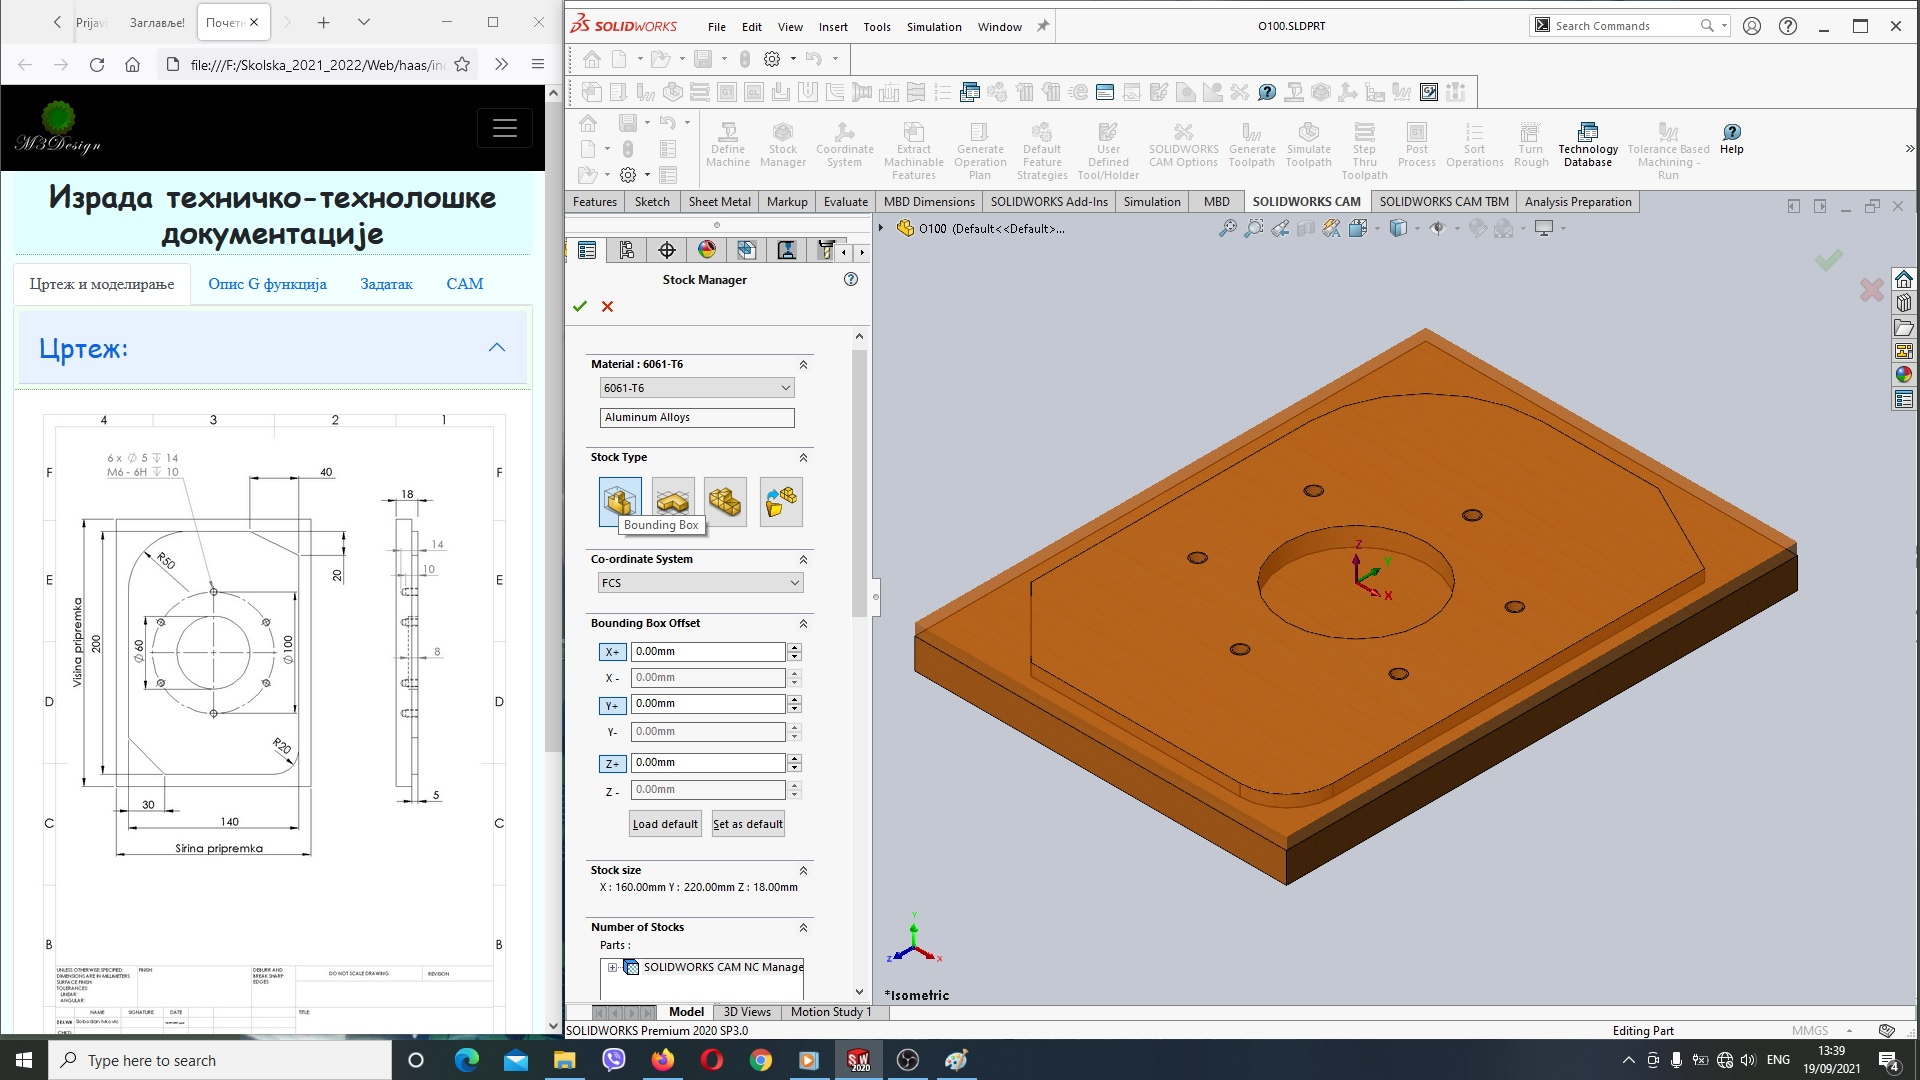
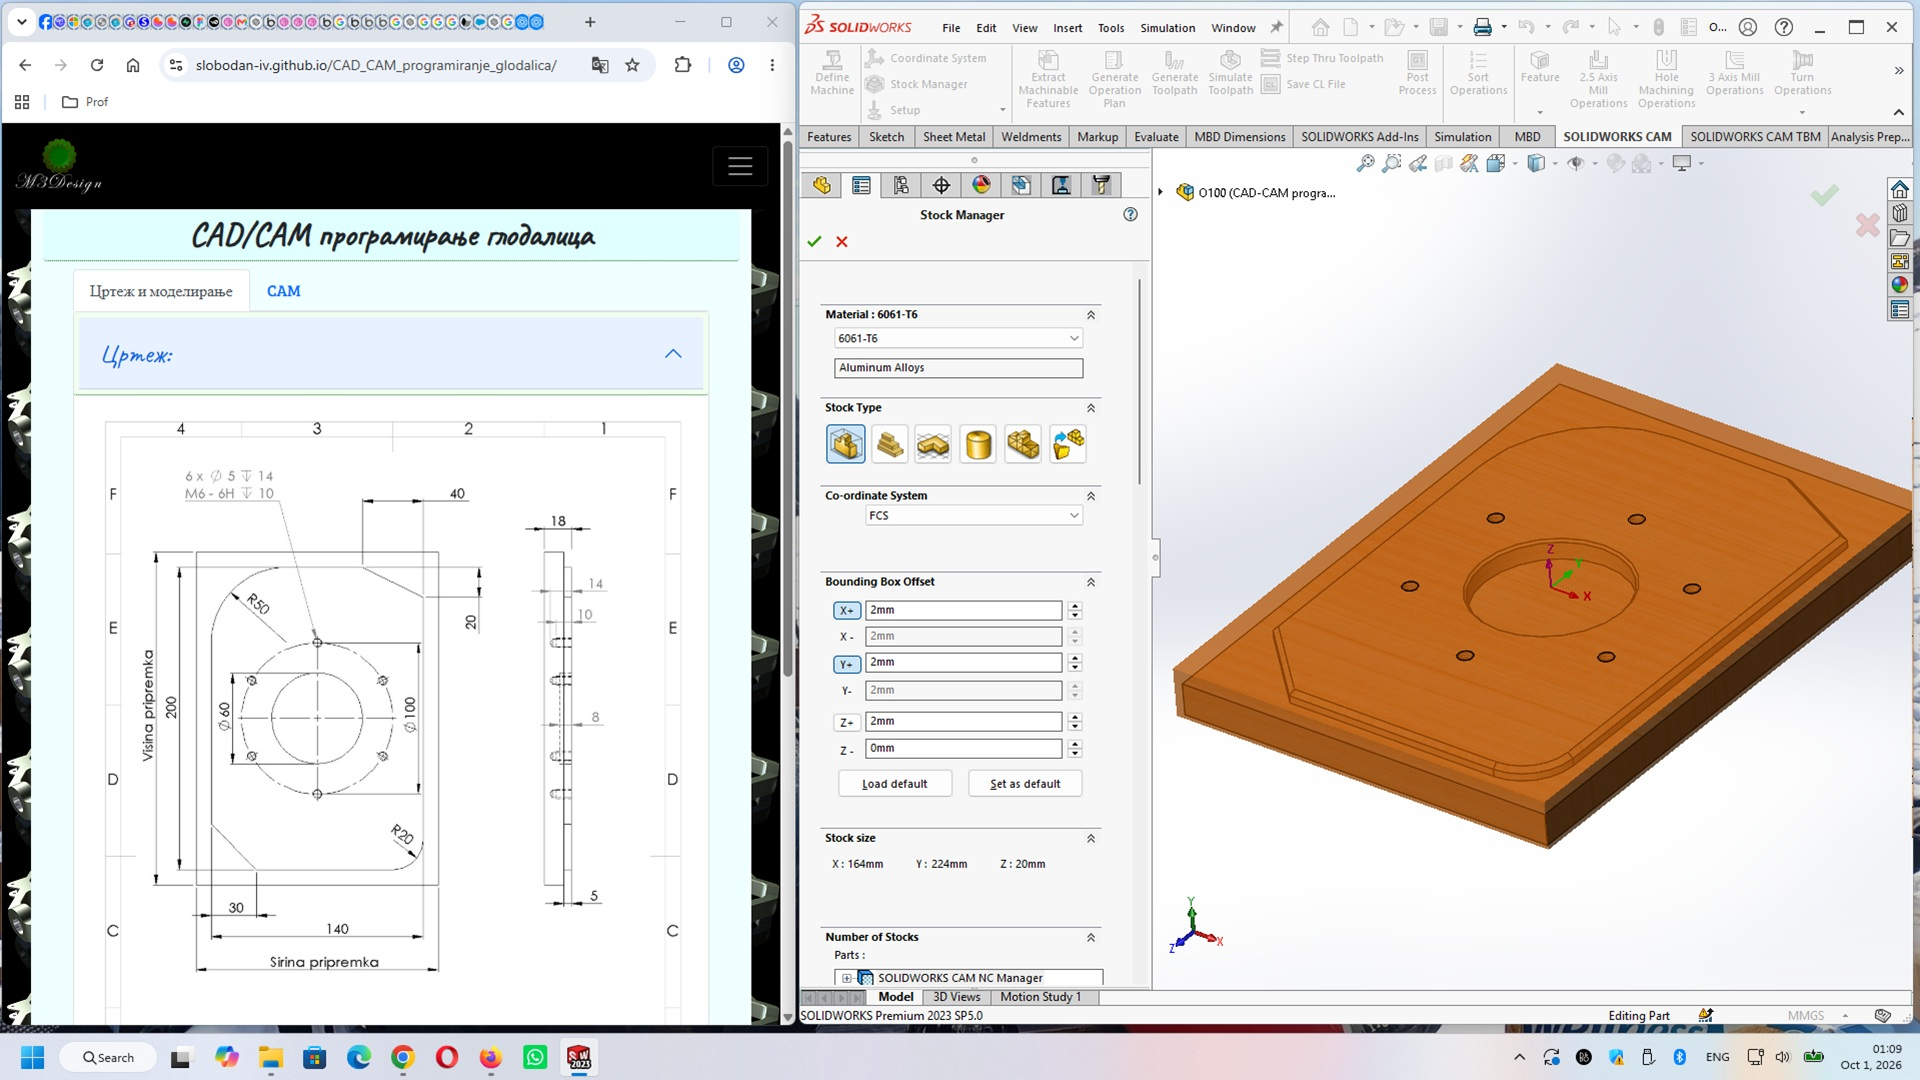
The index.html page for Face Mill Feature has been finished, also carousel has been updated to accomplish Face Mill Feature update. I love my son Aleksej Ivkovic Cvijic very very much. I miss you to the farthest star and beyond, unponderable in infinity... To my son Aleksej with love!

diff --git a/index.html b/index.html
@@ -244,13 +244,13 @@
                   <div class="accordion-item">
                     <h2 class="accordion-header" id="O100_CAM_setup_tutorial">
                       <button class="btn accordion-button" type="button" data-bs-toggle="collapse" data-bs-target="#collapse_O100_CAM_setup_tutorial" aria-expanded="true" aria-controls="collapse_O100_CAM_setup_tutorial">
-                        Дефинисање машине, постпроцесора, припремка и координатног система:
+                        Дефинисање машине, постпроцесора, припремка и координатног система (основни елементи CAD/CAM програма):
                       </button>
                     </h2>
                     <div id="collapse_O100_CAM_setup_tutorial" class="accordion-collapse collapse" aria-labelledby="O100_CAM_setup_tutorial" data-bs-parent="#sw_tutorial">
                       <div class="accordion-body">
                         <div class="card ratio ratio-16x9">
-                          
+                          <iframe width="560" height="315" src="https://www.youtube.com/embed/XT0kz7Z2v-8?si=mJjwr9-R5z628vgt" title="YouTube video player" frameborder="0" allow="accelerometer; autoplay; clipboard-write; encrypted-media; gyroscope; picture-in-picture; web-share" referrerpolicy="strict-origin-when-cross-origin" allowfullscreen></iframe>
                         </div>
                       </div>
                     </div>
@@ -264,7 +264,7 @@
                     <div id="collapse_O100_Extract_MF_tutorial" class="accordion-collapse collapse" aria-labelledby="O100_Extract_MF_tutorial" data-bs-parent="#sw_tutorial">
                       <div class="accordion-body">
                         <div class="card ratio ratio-16x9">
-                          
+                          <iframe width="560" height="315" src="https://www.youtube.com/embed/Jf_yqeROFaE?si=mVYWIF59WNEQd2wp" title="YouTube video player" frameborder="0" allow="accelerometer; autoplay; clipboard-write; encrypted-media; gyroscope; picture-in-picture; web-share" referrerpolicy="strict-origin-when-cross-origin" allowfullscreen></iframe>
                         </div>
                       </div>
                     </div>
@@ -278,7 +278,7 @@
                     <div id="collapse_O100_Generate_OP_for_Face_Mill" class="accordion-collapse collapse" aria-labelledby="O100_Generate_OP_for_Face_Mill" data-bs-parent="#sw_tutorial">
                       <div class="accordion-body">
                         <div class="card ratio ratio-16x9">
-                          
+                          <iframe width="560" height="315" src="https://www.youtube.com/embed/7UqQWlA4AN0?si=wGQWGLgYNeJSl835" title="YouTube video player" frameborder="0" allow="accelerometer; autoplay; clipboard-write; encrypted-media; gyroscope; picture-in-picture; web-share" referrerpolicy="strict-origin-when-cross-origin" allowfullscreen></iframe>
                         </div>
                       </div>
                     </div>
@@ -292,14 +292,14 @@
                     <div id="collapse_O100_Post_Process_for_Face_Mill" class="accordion-collapse collapse" aria-labelledby="O100_Post_Process_for_Face_Mill" data-bs-parent="#sw_tutorial">
                       <div class="accordion-body">
                         <div class="card ratio ratio-16x9">
-                          
+                          <iframe width="560" height="315" src="https://www.youtube.com/embed/2Y1J01folZs?si=X0YYKwURP2ptQNzF" title="YouTube video player" frameborder="0" allow="accelerometer; autoplay; clipboard-write; encrypted-media; gyroscope; picture-in-picture; web-share" referrerpolicy="strict-origin-when-cross-origin" allowfullscreen></iframe>
                         </div>
                       </div>
                     </div>
                   </div>
                   <div class="accordion-item">
                     <h2 class="accordion-header" id="O100_Generate_OP_for_Open_Pocket">
-                      <button class="btn accordion-button" type="button" data-bs-toggle="collapse" data-bs-target="#collapse_O100_Generate_OP_for_Open_Pocket" aria-expanded="true" aria-controls="collapse_O100_Generate_OP_for_Open_Pocket">
+                      <button class="btn accordion-button disabled" type="button" data-bs-toggle="collapse" data-bs-target="#collapse_O100_Generate_OP_for_Open_Pocket" aria-expanded="true" aria-controls="collapse_O100_Generate_OP_for_Open_Pocket">
                         Generate Operation Plan for Open Pocket Feature:
                       </button>
                     </h2>
@@ -313,7 +313,7 @@
                   </div>
                   <div class="accordion-item">
                     <h2 class="accordion-header" id="O100_Post_Process_for_Open_Pocket">
-                      <button class="btn accordion-button" type="button" data-bs-toggle="collapse" data-bs-target="#collapse_O100_Post_Process_for_Open_Pocket" aria-expanded="true" aria-controls="collapse_O100_Post_Process_for_Open_Pocket">
+                      <button class="btn accordion-button disabled" type="button" data-bs-toggle="collapse" data-bs-target="#collapse_O100_Post_Process_for_Open_Pocket" aria-expanded="true" aria-controls="collapse_O100_Post_Process_for_Open_Pocket">
                         Post Process for Open Pocket Feature:
                       </button>
                     </h2>
@@ -327,7 +327,7 @@
                   </div>
                   <div class="accordion-item">
                     <h2 class="accordion-header" id="O100_GOP_CP_tutorial">
-                      <button class="btn accordion-button" type="button" data-bs-toggle="collapse" data-bs-target="#collapse_O100_GOP_CP_tutorial" aria-expanded="true" aria-controls="collapse_O100_GOP_CP_tutorial">
+                      <button class="btn accordion-button disabled" type="button" data-bs-toggle="collapse" data-bs-target="#collapse_O100_GOP_CP_tutorial" aria-expanded="true" aria-controls="collapse_O100_GOP_CP_tutorial">
                         Generate Operation Plan for Circular Pocket Feature:
                       </button>
                     </h2>
@@ -341,7 +341,7 @@
                   </div>
                   <div class="accordion-item">
                     <h2 class="accordion-header" id="O100_Post_Process_CP_tutorial">
-                      <button class="btn accordion-button" type="button" data-bs-toggle="collapse" data-bs-target="#collapse_O100_Post_Process_CP_tutorial" aria-expanded="true" aria-controls="collapse_O100_Post_Process_CP_tutorial">
+                      <button class="btn accordion-button disabled" type="button" data-bs-toggle="collapse" data-bs-target="#collapse_O100_Post_Process_CP_tutorial" aria-expanded="true" aria-controls="collapse_O100_Post_Process_CP_tutorial">
                         Post Process for Circular Pocket Feature:
                       </button>
                     </h2>
@@ -355,7 +355,7 @@
                   </div>
                   <div class="accordion-item">
                     <h2 class="accordion-header" id="O100_GOP_H_tutorial">
-                      <button class="btn accordion-button" type="button" data-bs-toggle="collapse" data-bs-target="#collapse_O100_GOP_H_tutorial" aria-expanded="true" aria-controls="collapse_O100_GOP_H_tutorial">
+                      <button class="btn accordion-button disabled" type="button" data-bs-toggle="collapse" data-bs-target="#collapse_O100_GOP_H_tutorial" aria-expanded="true" aria-controls="collapse_O100_GOP_H_tutorial">
                         Generate Operation Plan for Hole Group Feature:
                       </button>
                     </h2>
@@ -369,7 +369,7 @@
                   </div>
                   <div class="accordion-item">
                     <h2 class="accordion-header" id="O100_Post_Process_H_tutorial">
-                      <button class="btn accordion-button" type="button" data-bs-toggle="collapse" data-bs-target="#collapse_O100_Post_Process_H_tutorial" aria-expanded="true" aria-controls="collapse_O100_Post_Process_H_tutorial">
+                      <button class="btn accordion-button disabled" type="button" data-bs-toggle="collapse" data-bs-target="#collapse_O100_Post_Process_H_tutorial" aria-expanded="true" aria-controls="collapse_O100_Post_Process_H_tutorial">
                         Post Process for Hole Group Feature:
                       </button>
                     </h2>
@@ -383,7 +383,7 @@
                   </div>
                   <div class="accordion-item">
                     <h2 class="accordion-header" id="O100_Post_Process_tutorial">
-                      <button class="btn accordion-button" type="button" data-bs-toggle="collapse" data-bs-target="#collapse_O100_Post_Process_tutorial" aria-expanded="true" aria-controls="collapse_O100_Post_Process_tutorial">
+                      <button class="btn accordion-button disabled" type="button" data-bs-toggle="collapse" data-bs-target="#collapse_O100_Post_Process_tutorial" aria-expanded="true" aria-controls="collapse_O100_Post_Process_tutorial">
                         Post Process...:
                       </button>
                     </h2>
